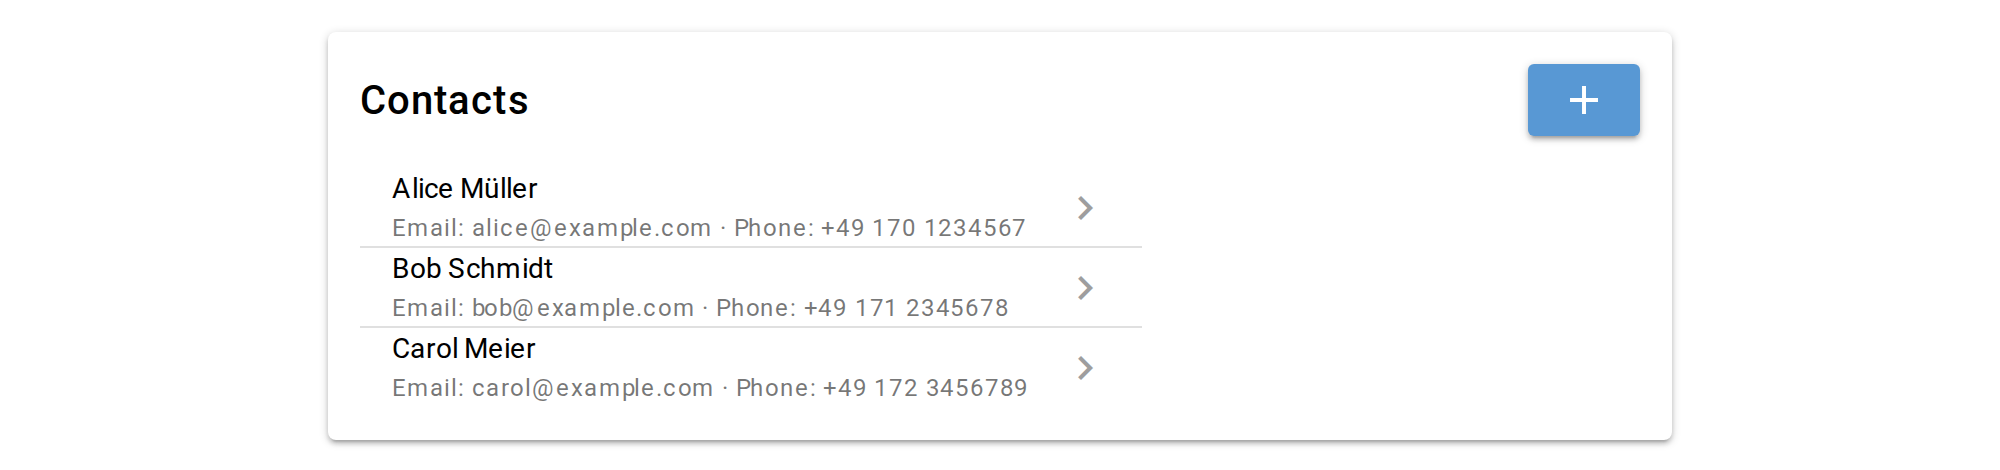
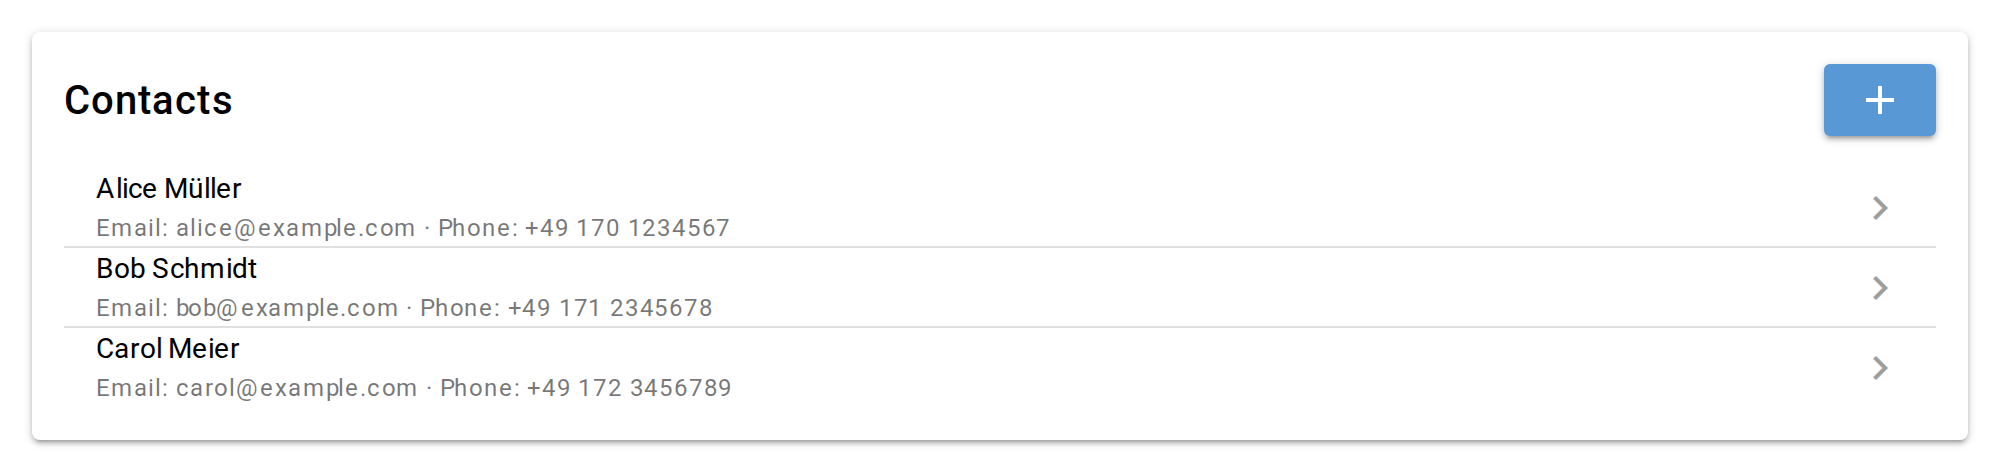
Add BoundFieldAdapter, tidy adapter protocols, widen lists; release 0.22.0
BoundFieldAdapter(parent_adapter, field_name) focuses a parent ItemAdapter
onto one named sub-field, so a single embedded model can be edited with its
own ModelForm. save() is read-modify-write: it re-reads the parent, sets only
that field, and saves it back — sibling-safe and multi-adapter-safe, but it
does not take part in the parent's optimistic locking (documented).

Adapters now inherit their protocols explicitly for consistency: BoundItem and
JsonAdapter from ItemAdapter[T], FilteredAdapter from CollectionAdapter[T],
ReloadableAdapter. Removed the unused @runtime_checkable on ItemAdapter
(nothing ever isinstance-checked it).

ModelList renders its ui.list at full width, so a list in a full-width card
fills it instead of shrinking to content. Affects every default DrillDownWrapper
list; example 09 and the 13/18 screenshots regenerated accordingly.

Claude-Session: https://claude.ai/code/session_01SFgevEVZJE4ZADRZzDJfBM

diff --git a/niceview/dataadapter.py b/niceview/dataadapter.py
@@ -34,6 +34,7 @@ __all__ = [
     'ReactiveAdapter',
     'CollectionAdapter',
     'BoundItem',
+    'BoundFieldAdapter',
     'ListAdapter',
     'FilteredAdapter',
     'JsonAdapter',
@@ -141,7 +142,6 @@ def lenient_list_load(item_type: type[T], json_text: str, context: str = '') -> 
     return result
 
 
-@runtime_checkable
 class ItemAdapter(Generic[T], Protocol):
     """
     Adapter protocol for single-item backends (ModelForm).
@@ -223,7 +223,7 @@ class CollectionAdapter(Generic[T], Protocol):
             yield self.key_from_item(item), item
 
 
-class BoundItem(Generic[T]):
+class BoundItem(ItemAdapter[T]):
     """
     Wraps a CollectionAdapter + key into an ItemAdapter.
 
@@ -239,6 +239,45 @@ class BoundItem(Generic[T]):
 
     def save(self, item: T) -> T:
         return self._adapter.update(item)
+
+
+class BoundFieldAdapter(ItemAdapter[T]):
+    """
+    Wraps an ItemAdapter + field name into an ItemAdapter for one named sub-field
+    of the parent item — typically an embedded model of its own.
+
+    This is the piece ModelForm does not render as a sub-form on its own: bind a
+    second ModelForm to a single nested model by focusing the parent adapter onto
+    that field.
+
+        parent = JsonAdapter(Device, path)
+        addr_form = ModelForm.from_adapter(Address, BoundFieldAdapter(parent, 'address'))
+
+    save() is read-modify-write: it re-reads the parent, sets only this one field, and
+    saves the parent back. Two consequences follow from that, both deliberate:
+
+    * Sibling fields are never touched. Several BoundFieldAdapters over the same parent
+      (e.g. one ModelForm per card) therefore stay independent — each save re-reads and
+      picks up the others' already-saved values, in any order.
+    * It does NOT take part in the parent adapter's optimistic locking. Re-reading right
+      before the write means the lock token always matches, so the check never fires. Do
+      not set a `lock_field` on a parent reached only through BoundFieldAdapters: it adds
+      no protection here, and its token bump on every sub-save would make a concurrently
+      open full-parent form see a false conflict. For real single-field locking, bind a
+      ModelForm to the parent adapter directly instead.
+    """
+    def __init__(self, parent_adapter: 'ItemAdapter[Any]', field_name: str) -> None:
+        self._parent_adapter = parent_adapter
+        self._field_name = field_name
+
+    def read(self) -> T:
+        return getattr(self._parent_adapter.read(), self._field_name)
+
+    def save(self, item: T) -> T:
+        parent_item = self._parent_adapter.read()
+        setattr(parent_item, self._field_name, item)
+        saved_parent = self._parent_adapter.save(parent_item)
+        return getattr(saved_parent, self._field_name)
 
 
 class ListAdapter(_ChangeNotifier, CollectionAdapter[T]):
@@ -349,7 +388,7 @@ class ListAdapter(_ChangeNotifier, CollectionAdapter[T]):
         self._notify()
 
 
-class FilteredAdapter(_ChangeNotifier, Generic[T]):
+class FilteredAdapter(_ChangeNotifier, CollectionAdapter[T], ReloadableAdapter):
     """
     Wraps a CollectionAdapter, filtering __iter__ results by a predicate and
     injecting default field values on create().
@@ -404,7 +443,7 @@ class FilteredAdapter(_ChangeNotifier, Generic[T]):
             self._inner.reload()
 
 
-class JsonAdapter(Generic[T]):
+class JsonAdapter(ItemAdapter[T]):
     """
     An ItemAdapter backed by a JSON file containing a single Pydantic model instance.
     Writes are atomic (.tmp → rename).
@@ -509,7 +548,8 @@ class JsonListAdapter(ListAdapter[T], ReloadableAdapter):
 
     Items are kept in memory (like ListAdapter) and written to disk after
     every mutating operation. Writes are atomic: the full list is serialized to
-    a .tmp file that is then renamed over the target path.
+    a .tmp file that is then renamed over the target path. A lock_field for
+    for optimistic locking is not supported.
 
     Keys are monotonic counter strings (same as ListAdapter), stable across
     deletions within a session but reassigned after reload().

diff --git a/tests/test_dataadapter.py b/tests/test_dataadapter.py
@@ -3,7 +3,7 @@ import json
 import pytest
 import pydantic
 
-from niceview.dataadapter import ConflictError, ListAdapter, JsonAdapter, JsonListAdapter, DirectoryAdapter, FileEntry
+from niceview.dataadapter import ConflictError, ListAdapter, JsonAdapter, JsonListAdapter, DirectoryAdapter, FileEntry, BoundItem, BoundFieldAdapter
 from niceview.modelgrid import ModelGrid, ModelGridInlineEdit
 
 
@@ -18,6 +18,17 @@ class Item(pydantic.BaseModel):
 class TimestampedItem(pydantic.BaseModel):
     name: str = ''
     created_at: datetime.datetime | None = None
+
+
+class Address(pydantic.BaseModel):
+    street: str = ''
+    city: str = ''
+
+
+class Device(pydantic.BaseModel):
+    name: str = ''
+    address: Address = pydantic.Field(default_factory=Address)
+    shipping: Address = pydantic.Field(default_factory=Address)
 
 
 # ---------------------------------------------------------------------------
@@ -425,6 +436,60 @@ class TestJsonAdapterCreatedField:
         path = tmp_path / 'data.json'
         with pytest.raises(ValueError, match='does not have a field named'):
             JsonAdapter(Item, path, created_field='nonexistent')
+
+
+# ---------------------------------------------------------------------------
+# BoundFieldAdapter
+# ---------------------------------------------------------------------------
+
+class TestBoundFieldAdapter:
+    def _parent(self, tmp_path):
+        path = tmp_path / 'device.json'
+        adapter = JsonAdapter(Device, path, create_if_not_exist=True)
+        adapter.save(Device(name='dev', address=Address(street='Main', city='Town')))
+        return adapter
+
+    def test_read_returns_the_named_sub_field(self, tmp_path):
+        parent = self._parent(tmp_path)
+        addr = BoundFieldAdapter(parent, 'address').read()
+        assert isinstance(addr, Address)
+        assert addr.street == 'Main' and addr.city == 'Town'
+
+    def test_save_writes_only_that_field_through_the_parent(self, tmp_path):
+        parent = self._parent(tmp_path)
+        sub = BoundFieldAdapter(parent, 'address')
+        sub.save(Address(street='New', city='City'))
+        stored = parent.read()
+        assert stored.address == Address(street='New', city='City')
+        assert stored.name == 'dev'  # sibling field untouched
+
+    def test_save_returns_the_stored_sub_item(self, tmp_path):
+        parent = self._parent(tmp_path)
+        result = BoundFieldAdapter(parent, 'address').save(Address(street='X', city='Y'))
+        assert result == Address(street='X', city='Y')
+
+    def test_two_adapters_over_one_parent_stay_independent(self, tmp_path):
+        # The read-modify-write in save() is what keeps them from clobbering each other:
+        # each save re-reads the parent and picks up the other's already-saved value.
+        parent = self._parent(tmp_path)
+        addr = BoundFieldAdapter(parent, 'address')
+        ship = BoundFieldAdapter(parent, 'shipping')
+        addr.save(Address(street='A-street', city='A-city'))
+        ship.save(Address(street='S-street', city='S-city'))
+        stored = parent.read()
+        assert stored.address == Address(street='A-street', city='A-city')
+        assert stored.shipping == Address(street='S-street', city='S-city')
+
+    def test_works_over_a_bound_item_parent(self, tmp_path):
+        # Parent reached through a CollectionAdapter + key, not only a JsonAdapter.
+        devices = [Device(name='d0'), Device(name='d1', address=Address(street='Old', city='Here'))]
+        collection = ListAdapter(Device, devices)
+        parent = BoundItem(collection, collection.key_from_item(devices[1]))
+        sub = BoundFieldAdapter(parent, 'address')
+        assert sub.read().street == 'Old'
+        sub.save(Address(street='Fresh', city='There'))
+        assert devices[1].address == Address(street='Fresh', city='There')
+        assert devices[1].name == 'd1'
 
 
 # ---------------------------------------------------------------------------

diff --git a/niceview/__init__.py b/niceview/__init__.py
@@ -3,6 +3,7 @@ from typing import Any, Unpack
 
 from niceview.fieldinfo import _FieldInfoInputs, FieldInfo
 from niceview.dataadapter import (
+    BoundFieldAdapter,
     BoundItem,
     CollectionAdapter,
     ConflictError,
@@ -47,7 +48,7 @@ __all__ = [
     'ChromeText', 'get_chrome_text', 'set_chrome_text',
     # Data adapters
     'ItemAdapter', 'CollectionAdapter', 'ReloadableAdapter', 'ReactiveAdapter',
-    'BoundItem', 'ListAdapter', 'JsonAdapter', 'JsonListAdapter',
+    'BoundItem', 'BoundFieldAdapter', 'ListAdapter', 'JsonAdapter', 'JsonListAdapter',
     'DirectoryAdapter', 'FileEntry', 'FilteredAdapter', 'SqlModelAdapter',
     'lenient_model_load', 'lenient_list_load',
     # Errors

diff --git a/niceview/modellist.py b/niceview/modellist.py
@@ -176,7 +176,7 @@ class ModelList:
     def render(self) -> Self:
         """Render the list widget into the current NiceGUI context."""
         style = self._chrome_style or get_chrome_style()
-        with ui.list().props(style.list_props) as self.widget:
+        with ui.list().props(style.list_props).classes('w-full') as self.widget:
             self._render_items()
 
         if not self._auto_update_registered and isinstance(self._data, ReactiveAdapter):

diff --git a/examples/09_drilldown.py b/examples/09_drilldown.py
@@ -30,7 +30,7 @@ contacts = [
 
 @ui.page('/')
 def page():
-    with ui.card().classes('w-full max-w-2xl mx-auto'):
+    with ui.card().classes('w-full'):
         DrillDownWrapper.from_list(
             Contact, contacts,
             list_title='Contacts',

diff --git a/docs/adapters.md b/docs/adapters.md
@@ -143,6 +143,26 @@ for key, project in projects_adapter.items():
 the standard bridge for master-detail navigation (e.g. `ModelForm.from_adapter()`).
 `BoundItem` can be imported directly from `niceview` (`from niceview import BoundItem`).
 
+`BoundFieldAdapter(parent_adapter, field_name)` wraps an `ItemAdapter` + a field name into an
+`ItemAdapter` for one named sub-field of the parent item. Its purpose is the one thing `ModelForm`
+does **not** render on its own: a *single* embedded model (`address: Address`). Bind a second form
+to that field by focusing the parent adapter onto it:
+
+```python
+parent = JsonAdapter(Device, path)
+ModelForm.from_adapter(Device, parent).render()                         # the parent's own fields
+ModelForm.from_adapter(Address, BoundFieldAdapter(parent, 'address')).render()   # the nested model
+```
+
+`save()` is read-modify-write: it re-reads the parent, sets only this one field, and saves the
+parent back. So sibling fields are never touched, and **several `BoundFieldAdapter`s over the same
+parent stay independent** — one `ModelForm` per card, edited in any order, each save picking up the
+others' saved values. The flip side: it does **not** take part in the parent adapter's optimistic
+locking (re-reading right before the write makes the lock token always match). Do not set a
+`lock_field` on a parent reached only through `BoundFieldAdapter`s — it adds no protection and its
+token bump would make a concurrently open full-parent form see a false conflict. For real
+single-field locking, bind a `ModelForm` to the parent adapter directly instead.
+
 **Reactive updates**
 
 All built-in adapters implement `ReactiveAdapter` via the `_ChangeNotifier` mixin.

diff --git a/docs/CHANGELOG.md b/docs/CHANGELOG.md
@@ -5,6 +5,31 @@ All notable changes to this project are documented here.
 The format is based on [Keep a Changelog](https://keepachangelog.com/en/1.1.0/),
 and this project adheres to [Semantic Versioning](https://semver.org/spec/v2.0.0.html).
 
+[0.22.0] - 2026-08-18
+---------------------
+
+### Added
+
+- **`BoundFieldAdapter(parent_adapter, field_name)`** — an `ItemAdapter` that focuses a parent
+  `ItemAdapter` onto one named sub-field. It fills the one gap `ModelForm` leaves open: editing a
+  *single* embedded model (`address: Address`) with its own form, by binding it to
+  `BoundFieldAdapter(parent, 'address')`. `save()` is read-modify-write (re-read the parent, set
+  only that field, save the parent), so sibling fields are never touched and several
+  `BoundFieldAdapter`s over one parent stay independent — but it does not take part in the parent
+  adapter's optimistic locking. See [Data Adapters](adapters.md).
+
+### Changed
+
+- **`ModelList` now renders its `ui.list` at full width** (`w-full`), so a list in a full-width
+  card or column fills it instead of shrinking to its content. Affects `ModelList` and every
+  default `DrillDownWrapper` list.
+
+- Adapters now inherit their protocols explicitly for consistency: `BoundItem` and `JsonAdapter`
+  from `ItemAdapter[T]`, `FilteredAdapter` from `CollectionAdapter[T], ReloadableAdapter` (matching
+  `ListAdapter`, `DirectoryAdapter`, `JsonListAdapter`, `SqlModelAdapter`). Internal only — the
+  structural conformance, and thus every usage, is unchanged. The unused `@runtime_checkable` on
+  `ItemAdapter` was removed (nothing ever `isinstance`-checked it).
+
 [0.21.3] - 2026-08-18
 ---------------------
 
